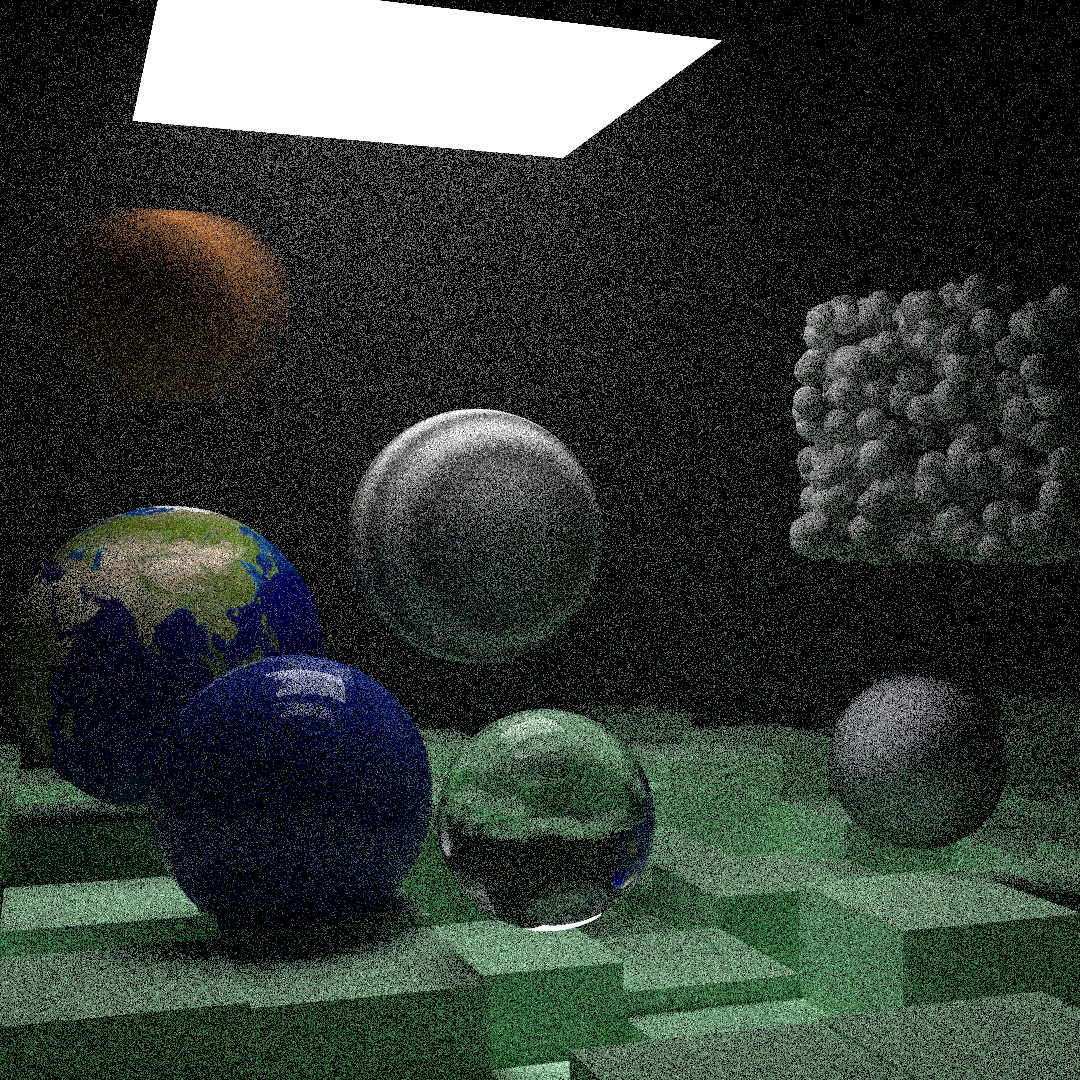
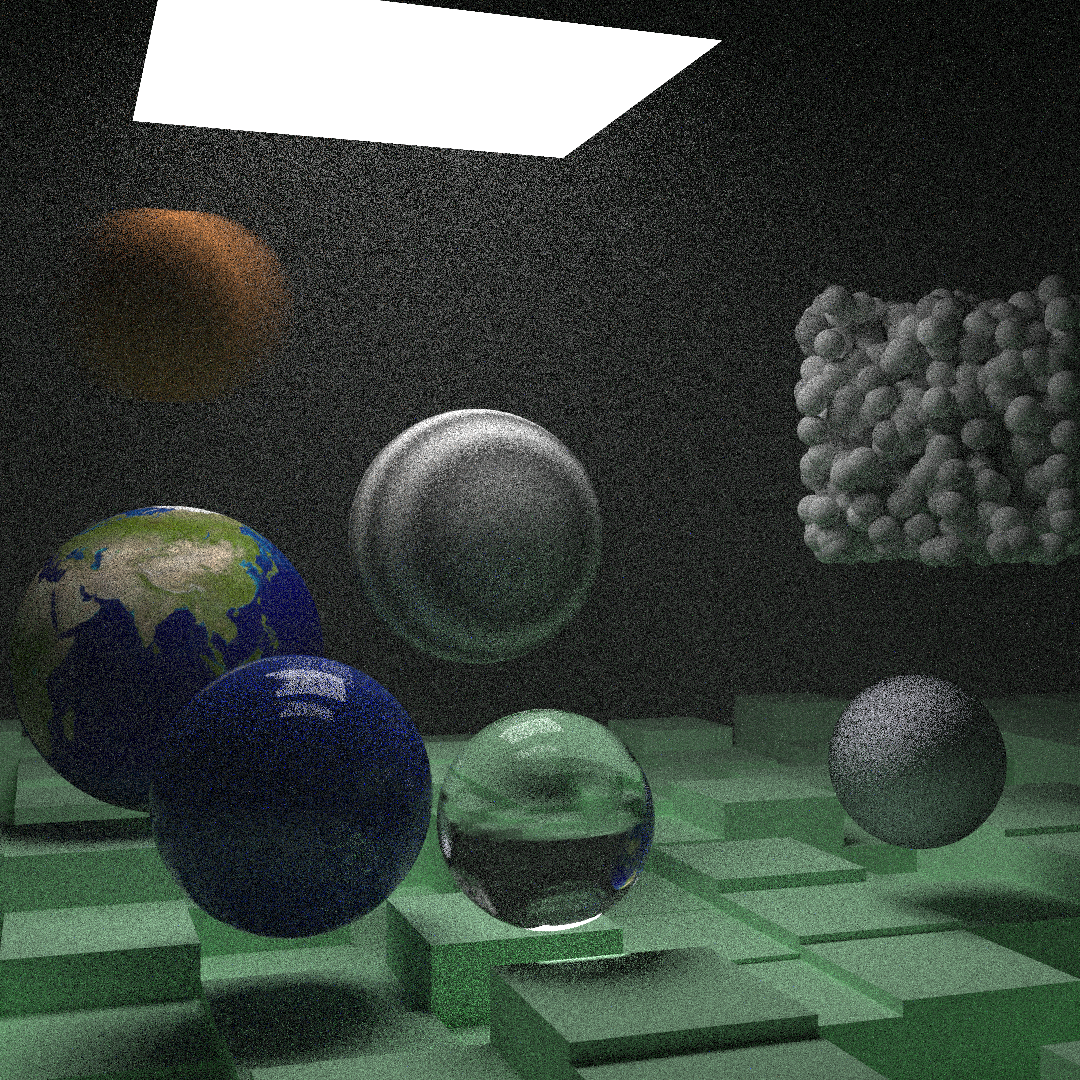
added importance sampling

diff --git a/kernels/src/hitables/mod.rs b/kernels/src/hitables/mod.rs
@@ -361,6 +361,20 @@ pub enum HitKindNonRecursive<'b> {
 }
 impl_into_hitkind_non_recursive!(Sphere, Quad, Triangle);
 
+#[cfg(not(target_os = "cuda"))]
+use crate::materials::IsLight;
+
+#[cfg(not(target_os = "cuda"))]
+impl<'a> IsLight for HitKindNonRecursive<'a> {
+    fn is_light(&self) -> bool {
+        match self {
+            HitKindNonRecursive::Sphere(s) => s.is_light(),
+            HitKindNonRecursive::Quad(q) => q.is_light(),
+            HitKindNonRecursive::Triangle(t) => t.is_light(),
+        }
+    }
+}
+
 #[repr(C)]
 #[cfg_attr(not(target_os = "cuda"), derive(Clone))]
 #[enum_dispatch(IntoBoundingBox)]
@@ -472,6 +486,55 @@ impl<'a> HitRecord<'a> {
             mat,
             u,
             v,
+        }
+    }
+}
+
+#[cfg(not(target_os = "cuda"))]
+trait GetLights<'a> {
+    fn get_lights_inner(&self) -> Vec<HitKind<'a>>;
+}
+
+#[cfg(not(target_os = "cuda"))]
+impl<'a> HitKind<'a> {
+    pub fn get_lights(&self) -> HitKind<'a> {
+        let lights = match self {
+            HitKind::HitKindNonRecursive(h) => h.get_lights_inner(),
+            HitKind::HitKindRecursive(h) => h.get_lights_inner(),
+        };
+        HitableList::new_owned(lights).into()
+    }
+}
+
+#[cfg(not(target_os = "cuda"))]
+impl<'a> GetLights<'a> for HitKind<'a> {
+    fn get_lights_inner(&self) -> Vec<HitKind<'a>> {
+        match self {
+            HitKind::HitKindNonRecursive(h) => h.get_lights_inner(),
+            HitKind::HitKindRecursive(h) => h.get_lights_inner(),
+        }
+    }
+}
+
+#[cfg(not(target_os = "cuda"))]
+impl<'a> GetLights<'a> for HitKindNonRecursive<'a> {
+    fn get_lights_inner(&self) -> Vec<HitKind<'a>> {
+        let mut lights = Vec::new();
+        if self.is_light() {
+            lights.push(self.clone().into());
+        }
+        lights
+    }
+}
+
+#[cfg(not(target_os = "cuda"))]
+impl<'a> GetLights<'a> for HitKindRecursive<'a> {
+    fn get_lights_inner(&self) -> Vec<HitKind<'a>> {
+        match self {
+            HitKindRecursive::HitableList(h) => h.get_lights_inner(),
+            HitKindRecursive::Translate(h) => h.get_lights_inner(),
+            HitKindRecursive::Rotate(h) => h.get_lights_inner(),
+            HitKindRecursive::ConstantMedium(h) => h.get_lights_inner(),
         }
     }
 }

diff --git a/kernels/src/materials/mod.rs b/kernels/src/materials/mod.rs
@@ -16,6 +16,11 @@ use crate::{
 use enum_dispatch::enum_dispatch;
 use gpu_builder::derive_builder;
 
+#[cfg(not(target_os = "cuda"))]
+pub trait IsLight {
+    fn is_light(&self) -> bool;
+}
+
 pub enum ScatterResult<'b, 'a> {
     Scattered(Ray),
     PDF(PDFKind<'b, 'a>),
@@ -46,6 +51,20 @@ pub enum MaterialKind<'a> {
     DiffuseLight(DiffuseLight<'a>),
     Isotropic(Isotropic),
     IsFront(IsFront),
+}
+
+#[cfg(not(target_os = "cuda"))]
+impl<'a> IsLight for MaterialKind<'a> {
+    fn is_light(&self) -> bool {
+        match self {
+            MaterialKind::Lambertian(mat) => mat.is_light(),
+            MaterialKind::Metal(mat) => mat.is_light(),
+            MaterialKind::Dielectric(mat) => mat.is_light(),
+            MaterialKind::DiffuseLight(mat) => mat.is_light(),
+            MaterialKind::Isotropic(mat) => mat.is_light(),
+            MaterialKind::IsFront(mat) => mat.is_light(),
+        }
+    }
 }
 
 pub mod dielectric;

diff --git a/kernels/src/hitables/hitable_list.rs b/kernels/src/hitables/hitable_list.rs
@@ -91,6 +91,9 @@ impl RecursiveHitable for HitableList<'_> {
         rng: &mut Random,
     ) -> Option<(&'a HitKind<'a>, usize)> {
         if count == 0 {
+            if self.hitables.len() == 0 {
+                return None;
+            }
             let index = rng.random_range(0..self.hitables.len());
             Some((&self.hitables[index], 1))
         } else if count == 1 {
@@ -98,5 +101,17 @@ impl RecursiveHitable for HitableList<'_> {
         } else {
             unreachable!()
         }
+    }
+}
+#[cfg(not(target_os = "cuda"))]
+use crate::hitables::GetLights;
+
+#[cfg(not(target_os = "cuda"))]
+impl<'a> GetLights<'a> for HitableList<'a> {
+    fn get_lights_inner(&self) -> Vec<HitKind<'a>> {
+        self.hitables
+            .iter()
+            .flat_map(|hitable| hitable.get_lights_inner())
+            .collect()
     }
 }

diff --git a/kernels/src/ray.rs b/kernels/src/ray.rs
@@ -104,7 +104,7 @@ impl Ray {
             ScatterResult::Scattered(scattered_ray) => Some((scattered_ray, attenuation)),
             ScatterResult::PDF(scattering_pdf) => {
                 let lights_pdf = HitablePDF::new(hit.p.clone(), lights);
-                let mixture_pdf = MixturePDF::new(&scattering_pdf, &scattering_pdf);
+                let mixture_pdf = MixturePDF::new_with_chance(0.8, &scattering_pdf, &lights_pdf);
                 let scattered_direction = mixture_pdf.generate(rng);
                 let pdf_value = mixture_pdf.value(&scattered_direction, rng);
 

diff --git a/kernels/src/hitables/planar.rs b/kernels/src/hitables/planar.rs
@@ -303,3 +303,20 @@ pub fn make_box<'a>(a: Point3, b: Point3, mat: MaterialKind<'a>) -> HitableListB
 
     sides
 }
+
+#[cfg(not(target_os = "cuda"))]
+use crate::materials::IsLight;
+
+#[cfg(not(target_os = "cuda"))]
+impl IsLight for Quad<'_> {
+    fn is_light(&self) -> bool {
+        self.mat.is_light()
+    }
+}
+
+#[cfg(not(target_os = "cuda"))]
+impl IsLight for Triangle<'_> {
+    fn is_light(&self) -> bool {
+        self.mat.is_light()
+    }
+}

diff --git a/kernels/src/hitables/constant_medium.rs b/kernels/src/hitables/constant_medium.rs
@@ -175,3 +175,13 @@ impl IntoBoundingBox for ConstantMedium<'_> {
         self.boundary.boundingbox()
     }
 }
+#[cfg(not(target_os = "cuda"))]
+use crate::hitables::GetLights;
+
+#[cfg(not(target_os = "cuda"))]
+impl<'a> GetLights<'a> for ConstantMedium<'a> {
+    fn get_lights_inner(&self) -> Vec<HitKind<'a>> {
+        // Constant medium is never a light source
+        Vec::new()
+    }
+}

diff --git a/kernels/src/hitables/translate.rs b/kernels/src/hitables/translate.rs
@@ -121,3 +121,13 @@ impl IntoBoundingBox for Translate<'_> {
         self.bounding_box.clone()
     }
 }
+
+#[cfg(not(target_os = "cuda"))]
+use crate::hitables::GetLights;
+
+#[cfg(not(target_os = "cuda"))]
+impl<'a> GetLights<'a> for Translate<'a> {
+    fn get_lights_inner(&self) -> Vec<HitKind<'a>> {
+        (&self.inner).get_lights_inner()
+    }
+}

diff --git a/kernels/src/materials/dielectric.rs b/kernels/src/materials/dielectric.rs
@@ -77,3 +77,14 @@ impl Material for Dielectric<'_> {
         Color::black()
     }
 }
+
+#[cfg(not(target_os = "cuda"))]
+use crate::materials::IsLight;
+
+#[cfg(not(target_os = "cuda"))]
+impl IsLight for Dielectric<'_> {
+    fn is_light(&self) -> bool {
+        //TODO: change back to true when implementing weighted version
+        false
+    }
+}

diff --git a/kernels/src/hitables/rotate.rs b/kernels/src/hitables/rotate.rs
@@ -141,3 +141,13 @@ impl IntoBoundingBox for Rotate<'_> {
         self.bounding_box.clone()
     }
 }
+
+#[cfg(not(target_os = "cuda"))]
+use crate::hitables::GetLights;
+
+#[cfg(not(target_os = "cuda"))]
+impl<'a> GetLights<'a> for Rotate<'a> {
+    fn get_lights_inner(&self) -> Vec<HitKind<'a>> {
+        (&self.inner).get_lights_inner()
+    }
+}

diff --git a/src/raytracer/camera.rs b/src/raytracer/camera.rs
@@ -96,7 +96,7 @@ impl Camera {
         let module = Module::from_ptx(PTX, &[])?;
         let stream = Stream::new(StreamFlags::NON_BLOCKING, None)?;
 
-        let lights: HitKind<'_> = HitableList::new(&[]).into();
+        let lights = world.get_lights();
 
         let world_copy = world.clone();
         let lights_copy = lights.clone();

diff --git a/kernels/src/hitables/sphere.rs b/kernels/src/hitables/sphere.rs
@@ -157,3 +157,13 @@ impl IntoBoundingBox for Sphere<'_> {
         start_box.merge(&end_box)
     }
 }
+
+#[cfg(not(target_os = "cuda"))]
+use crate::materials::IsLight;
+
+#[cfg(not(target_os = "cuda"))]
+impl IsLight for Sphere<'_> {
+    fn is_light(&self) -> bool {
+        self.mat.is_light()
+    }
+}

diff --git a/kernels/src/materials/metal.rs b/kernels/src/materials/metal.rs
@@ -48,3 +48,13 @@ impl Material for Metal<'_> {
         Color::black()
     }
 }
+
+#[cfg(not(target_os = "cuda"))]
+use crate::materials::IsLight;
+
+#[cfg(not(target_os = "cuda"))]
+impl IsLight for Metal<'_> {
+    fn is_light(&self) -> bool {
+        self.fuzziness < 0.2
+    }
+}
